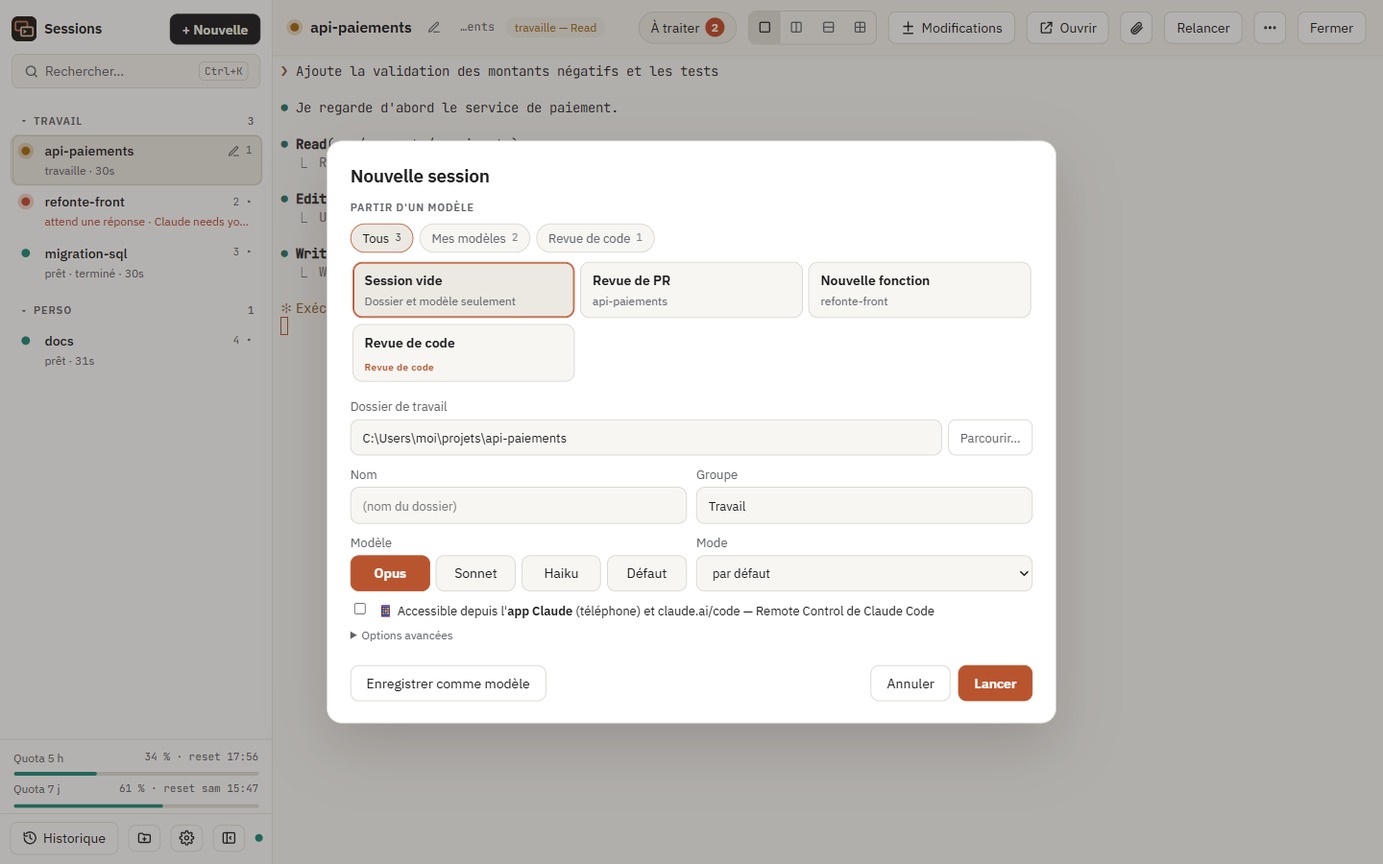
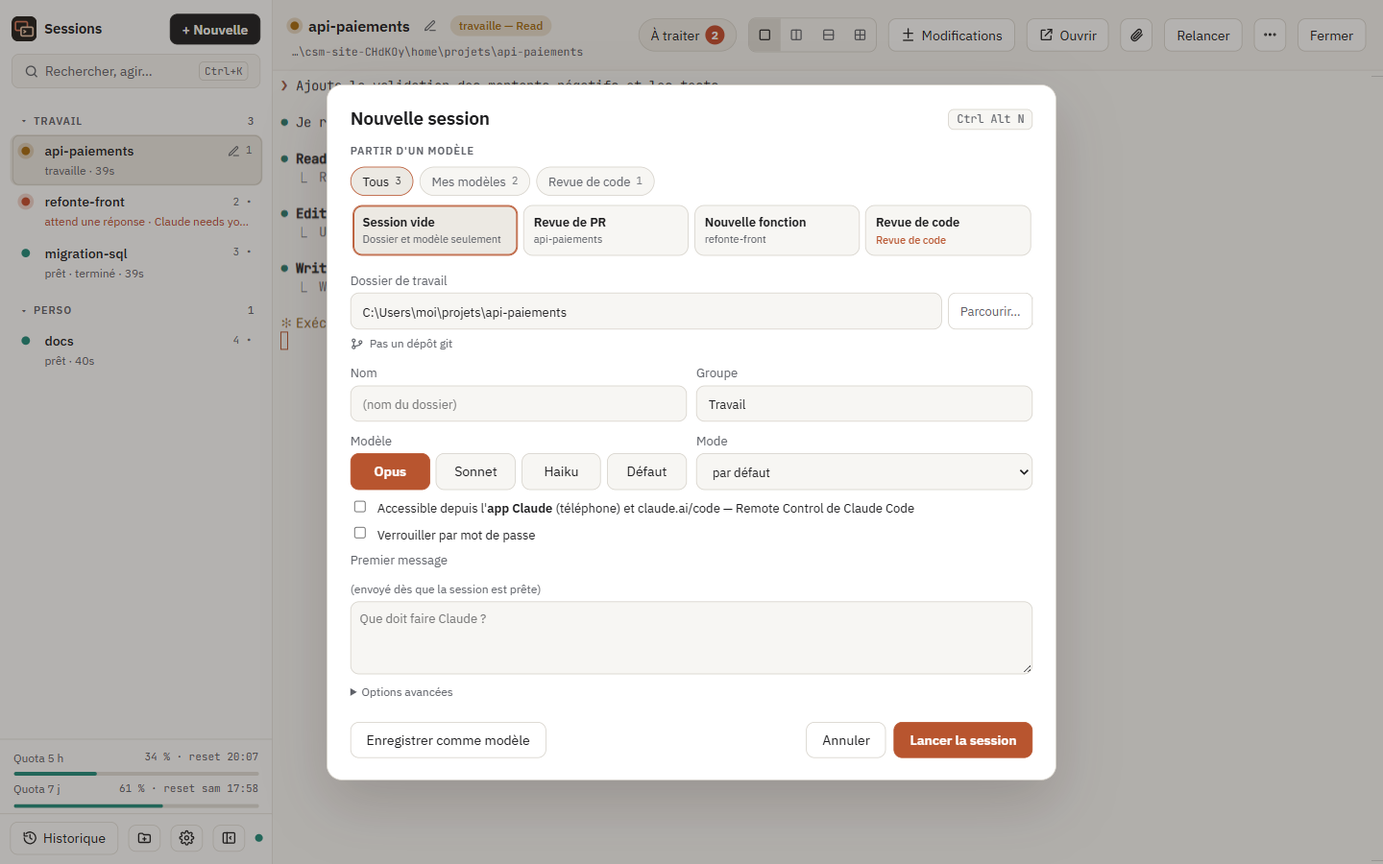
feat: refonte Atelier complétée — palette par sections, usage par période et toutes machines avec prévision 7 j, réglages de synchro, en-tête et vue partagée, nouvelle session et centre d'attention — v3.35.0

diff --git a/docs/guide.html b/docs/guide.html
@@ -86,7 +86,7 @@ footer { border-top: 1px solid var(--line); padding: 26px 20px 40px; color: var(
   </aside>
   <main>
     <h1>Guide de Claude Sessions</h1>
-    <p class="lead">Tout ce que fait l'application et comment s'en servir — version 3.34.0. Le même guide est dans le <a href="https://github.com/khalilbenaz/claude-sessions-manager#readme">README</a>.</p>
+    <p class="lead">Tout ce que fait l'application et comment s'en servir — version 3.35.0. Le même guide est dans le <a href="https://github.com/khalilbenaz/claude-sessions-manager#readme">README</a>.</p>
 <section id="g1-installation"><h2><span class="num">1</span>Installation</h2>
 <p>Seul prérequis : <b>Claude Code</b> installé (la commande <code>claude</code> fonctionne dans un terminal). Node.js n'est pas nécessaire.</p>
 <div class="tablebox"><table><thead><tr><th>Système</th><th>Fichier (<a href="https://github.com/khalilbenaz/claude-sessions-manager/releases/latest" target="_blank" rel="noopener">dernière version</a>)</th><th>Installation</th></tr></thead><tbody><tr><td>Windows 10 / 11</td><td><code>Claude-Sessions-Setup-x.y.z.exe</code></td><td>double-clic ; installation en un clic, sans droits administrateur</td></tr><tr><td>Mac Apple Silicon (M1…M4)</td><td><code>Claude-Sessions-x.y.z-arm64.dmg</code></td><td>ouvrir, glisser <b>Claude Sessions</b> dans Applications</td></tr><tr><td>Mac Intel</td><td><code>Claude-Sessions-x.y.z-x64.dmg</code></td><td>idem</td></tr></tbody></table></div>
@@ -132,7 +132,7 @@ footer { border-top: 1px solid var(--line); padding: 26px 20px 40px; color: var(
 </section>
 <section id="g6-vue-partagee"><h2><span class="num">6</span>Vue partagée</h2>
 <p>Pour <b>suivre plusieurs sessions en même temps</b> : boutons de disposition dans la barre (▢ une, ◫ deux colonnes, ⊟ deux lignes, ⊞ grille 2×2) ou palette.</p>
-<ul><li><b>Placer une session</b> : glisse-la depuis la barre latérale sur un panneau, ou clique-la (elle va dans le panneau actif, surligné en orange).</li><li><b>Changer de panneau</b> : clic dans le panneau ou <kbd>Ctrl</kbd>+<kbd>Alt</kbd>+<kbd>←</kbd>/<kbd>→</kbd> ; ✕ en haut d'un panneau le vide.</li><li>Chaque terminal garde sa propre taille ; la disposition est mémorisée.</li><li><b>Envoyer à tous les panneaux</b> : la barre sous la grille envoie un même message à toutes les sessions affichées (« Envoyer à N panneaux ») ; une session qui travaille le reçoit en file d'attente (case <i>en file si occupée</i>).</li><li><b>Mode focus</b> (<kbd>Ctrl</kbd>+<kbd>Alt</kbd>+<kbd>F</kbd>) : masque la barre latérale.</li></ul>
+<ul><li><b>Placer une session</b> : glisse-la depuis la barre latérale sur un panneau, ou clique-la (elle va dans le panneau actif, surligné en orange).</li><li><b>Changer de panneau</b> : clic dans le panneau ou <kbd>Ctrl</kbd>+<kbd>Alt</kbd>+<kbd>←</kbd>/<kbd>→</kbd> ; ✕ en haut d'un panneau le vide.</li><li>Chaque terminal garde sa propre taille ; la disposition est mémorisée. L'en-tête d'un panneau montre le numéro de la session ; quand elle demande une autorisation, <b>Oui / Toujours / Non</b> y répondent sans quitter la grille.</li><li><b>Envoyer à tous les panneaux</b> : la barre sous la grille envoie un même message à toutes les sessions affichées (« Envoyer à N panneaux ») ; une session qui travaille le reçoit en file d'attente (case <i>en file si occupée</i>).</li><li><b>Mode focus</b> (<kbd>Ctrl</kbd>+<kbd>Alt</kbd>+<kbd>F</kbd>) : masque la barre latérale.</li></ul>
 </section>
 <section id="g7-worktrees-git-plusieurs-claude-sur-le-meme-depot"><h2><span class="num">7</span>Worktrees git : plusieurs Claude sur le même dépôt</h2>
 <p>Deux sessions qui modifient le même dépôt au même moment se marchent dessus. Un <b>worktree git</b> donne à une session <b>son propre dossier et sa propre branche</b>, à côté du dépôt principal, sans y toucher.</p>
@@ -140,7 +140,7 @@ footer { border-top: 1px solid var(--line); padding: 26px 20px 40px; color: var(
 <p>La fusion est refusée s'il reste des modifications non commitées, si le dépôt principal n'est pas sur la branche de base, ou en cas de conflit (la fusion est alors annulée proprement).</p>
 </section>
 <section id="g8-panneau-modifications-chronologie-consommation"><h2><span class="num">8</span>Panneau Modifications, Chronologie, Consommation</h2>
-<p><b>Usage de Claude</b> (<kbd>Ctrl</kbd>+<kbd>Alt</kbd>+<kbd>U</kbd>, palette, ou clic sur les quotas en bas de la barre latérale) : sessions actives, demandes à traiter, <b>temps de travail de Claude</b> aujourd'hui (dont le temps « sans toi », pendant que la file d'attente envoyait les demandes), coût estimé du jour et des 7 jours ; <b>quota 5 h</b> avec son historique et une <b>prévision</b> (« au rythme actuel, limite atteinte vers 15:40 ») ; prochaines <b>tâches planifiées</b> ; détail <b>par session</b> (temps du jour, tokens et coût sur 7 jours).</p>
+<p><b>Usage de Claude</b> (<kbd>Ctrl</kbd>+<kbd>Alt</kbd>+<kbd>U</kbd>, palette, ou clic sur les quotas en bas de la barre latérale) : sessions actives, demandes à traiter, <b>temps de travail de Claude</b> aujourd'hui (dont le temps « sans toi », pendant que la file d'attente envoyait les demandes), coût estimé du jour et des 7 jours ; <b>quota 5 h</b> avec son historique et une <b>prévision</b> (« au rythme actuel, limite atteinte vers 15:40 ») ; prochaines <b>tâches planifiées</b> (avec la session ou le modèle visé ; <i>Ajouter</i>, <i>Gérer</i>) ; détail <b>par session</b>. <b>Période</b> au choix : jour, 7 jours ou 30 jours. Graphique du quota 5 h avec les heures, la prévision en hachuré jusqu'à la réinitialisation et le seuil de pause de la file ; <b>quota 7 jours</b> avec sa propre prévision (rythme des dernières 24 h). Avec la synchro, <b>Cette machine / Toutes les machines</b> additionne l'usage de tes machines (colonne Machine) : chaque machine ne partage que des totaux chiffrés par jour et par session, jamais de conversation (option <i>Usage de Claude</i> de la synchro).</p>
 <p>Bouton <b>± Modifications</b> (<kbd>Ctrl</kbd>+<kbd>Alt</kbd>+<kbd>G</kbd>) ou ⋯ : panneau latéral à trois onglets pour la session active.</p>
 <ul><li><b>Modifications</b> : fichiers modifiés dans le dossier de la session (git) avec leur état (M modifié, N nouveau, S supprimé). Clic = <b>diff coloré</b> ; ↺ = annuler un fichier ; <b>commit</b> avec « Proposer un message » et « Committer tout ». Rafraîchi quand Claude a fini un tour.</li><li><b>Chronologie</b> : les actions de Claude (📖 lus, ✏ modifiés, ▶ commandes, 🔎 recherches…) avec l'heure.</li><li><b>Consommation</b> : tokens d'entrée / sortie et <b>coût estimé</b> de la session, puis de toutes les sessions sur 5 h, aujourd'hui et 7 jours ; graphique par jour ; sessions les plus coûteuses. Estimation aux tarifs API publics, indicative (inclus dans un abonnement Claude).</li><li><b>Barre d'état des quotas</b> : sous l'invite de chaque session, CSM affiche tes quotas d'abonnement et l'heure de leur réinitialisation, le contexte utilisé et le modèle : <code>5h 20% ↻ 13:21 (2h09) · 7j 90% ↻ jeu 18:44 (2j7h) · ctx 42% · Opus 5.5</code>. Seulement si tu n'as pas déjà ta propre barre d'état Claude Code (<code>statusLine</code> dans <code>~/.claude/settings.json</code>) ; désactivable dans Réglages › Général.</li></ul>
 <p><b>Exporter une conversation</b> : ⋯ › Exporter → Markdown (fichier ou presse-papiers) ou impression / PDF.</p>
@@ -155,7 +155,7 @@ footer { border-top: 1px solid var(--line); padding: 26px 20px 40px; color: var(
 <p><b>Aperçu</b> : chaque image jointe apparaît en <b>miniature en haut à droite du terminal</b> (images du message en cours, propres à chaque session : seules celles de la session active sont affichées ; elles disparaissent dès que le message est envoyé). <b>Clic</b> = l'image en grand avec son nom (<kbd>Échap</kbd> pour fermer) ; <b>✕</b> masque les miniatures jusqu'à la prochaine pièce jointe. Les autres fichiers apparaissent en 📄.</p>
 </section>
 <section id="g11-palette-recherche-prompts-file-dattente-envoi-groupe"><h2><span class="num">11</span>Palette, recherche, prompts, file d'attente, envoi groupé</h2>
-<ul><li><b>Palette de commandes</b> (<kbd>Ctrl</kbd>/<kbd>⌘</kbd>+<kbd>K</kbd>) : quelques lettres pour aller à une session, reprendre une conversation, lancer un modèle, insérer un prompt ou exécuter une action (disposition, thème, réglages, diagnostic, verrouillage…). Les actions récentes remontent en tête.</li><li><b>Rechercher dans les sessions</b> (<kbd>Ctrl</kbd>/<kbd>⌘</kbd>+<kbd>Maj</kbd>+<kbd>F</kbd>) : un texte dans le contenu de tous les terminaux ouverts ; clic = y aller.</li><li><b>Bibliothèque de prompts</b> (⋯ › Insérer un prompt…, palette, Réglages › Prompts) : tes demandes réutilisables. Elle démarre avec 8 prompts prêts à l'emploi (relire les modifications, écrire les tests, expliquer du code, préparer un commit, corriger un bug, proposer un plan, documenter, résumer), modifiables et supprimables ; <b>+ Nouveau</b> pour ajouter les tiens. <b>Insérer</b> les place dans la ligne de saisie (tu relis, puis Entrée) ; <b>Envoyer</b> les soumet. Variables : <code>{dossier}</code>, <code>{branche}</code>, <code>{nom}</code>, <code>{selection}</code> (texte sélectionné dans le terminal).</li><li><b>File d'attente</b> (⋯ › File d'attente…, <kbd>Ctrl</kbd>+<kbd>Alt</kbd>+<kbd>Q</kbd>) : des prompts envoyés <b>un par un, automatiquement, chaque fois que Claude a fini</b> le précédent — « implémente », puis « ajoute les tests », puis « relis ». Le badge ⏳ indique le nombre en attente.</li></ul>
+<ul><li><b>Palette de commandes</b> (<kbd>Ctrl</kbd>/<kbd>⌘</kbd>+<kbd>K</kbd>) : quelques lettres pour aller à une session, reprendre une conversation, lancer un modèle, insérer un prompt ou exécuter une action (disposition, thème, réglages, diagnostic, verrouillage…). Les actions récentes remontent en tête. Résultats rangés par <b>sections</b> (Sessions, Actions, Prompts, Modèles, Conversations), terme surligné ; <code>&gt;</code> ne montre que les commandes, <code>/</code> que les prompts ; <kbd>Ctrl</kbd>/<kbd>⌘</kbd>+<kbd>Entrée</kbd> ouvre la session choisie dans un panneau de la vue partagée.</li><li><b>Rechercher dans les sessions</b> (<kbd>Ctrl</kbd>/<kbd>⌘</kbd>+<kbd>Maj</kbd>+<kbd>F</kbd>) : un texte dans le contenu de tous les terminaux ouverts ; clic = y aller.</li><li><b>Bibliothèque de prompts</b> (⋯ › Insérer un prompt…, palette, Réglages › Prompts) : tes demandes réutilisables. Elle démarre avec 8 prompts prêts à l'emploi (relire les modifications, écrire les tests, expliquer du code, préparer un commit, corriger un bug, proposer un plan, documenter, résumer), modifiables et supprimables ; <b>+ Nouveau</b> pour ajouter les tiens. <b>Insérer</b> les place dans la ligne de saisie (tu relis, puis Entrée) ; <b>Envoyer</b> les soumet. Variables : <code>{dossier}</code>, <code>{branche}</code>, <code>{nom}</code>, <code>{selection}</code> (texte sélectionné dans le terminal).</li><li><b>File d'attente</b> (⋯ › File d'attente…, <kbd>Ctrl</kbd>+<kbd>Alt</kbd>+<kbd>Q</kbd>) : des prompts envoyés <b>un par un, automatiquement, chaque fois que Claude a fini</b> le précédent — « implémente », puis « ajoute les tests », puis « relis ». Le badge ⏳ indique le nombre en attente.</li></ul>
 <p>  - <b>Quota</b> (Réglages › Général, activé par défaut) : près de la limite des 5 heures (seuil réglable, 95 % par défaut, lu dans la barre d'état de l'app) ou quand Claude Code affiche « 5-hour limit reached ∙ resets 3pm », la file <b>se met en pause</b> (badge <b>⏸ quota 15:00</b>) et <b>repart seule à la réinitialisation</b>, une minute après. Les sessions coupées en plein travail par la limite reçoivent alors « continue » (option <i>Relancer les sessions coupées par la limite</i>). Rien n'est envoyé pour rien pendant la nuit.</p>
 <ul><li><b>Envoi groupé</b> (<kbd>Ctrl</kbd>+<kbd>Alt</kbd>+<kbd>B</kbd>) : le même prompt à plusieurs sessions cochées, tout de suite ou en file d'attente si elles travaillent.</li></ul>
 <h3>11 bis. Demandes programmées</h3>

diff --git a/docs/index.html b/docs/index.html
@@ -238,7 +238,7 @@ try { const t = localStorage.getItem('csm-site-theme'); if (t) document.document
   </div>
 
   <section id="nouveautes">
-    <p class="eyebrow">Nouveautés 3.33</p>
+    <p class="eyebrow">Nouveautés 3.33 → 3.35</p>
     <h2>Une refonte complète, pensée pour travailler à plusieurs Claude</h2>
     <p class="sub">Nouvelle interface « Atelier », un endroit pour tout ce qui vous attend, l'usage de Claude en un coup d'œil, et des extensions pour ajouter vos propres types de session sans écrire de code.</p>
     <div class="grid">
@@ -262,7 +262,7 @@ try { const t = localStorage.getItem('csm-site-theme'); if (t) document.document
         <ul>
           <li>Envoi groupé : le même message à tous les panneaux visibles</li>
           <li>« En file si occupée » : il attend que Claude ait fini</li>
-          <li>Le panneau actif est entouré, son état reste visible</li>
+          <li>Une autorisation ? Oui / Toujours / Non directement dans le panneau</li>
         </ul>
       </div>
       <div class="window themed"><div class="tb"><i></i><i></i><i></i><span>Vue partagée 2×2</span></div><img class="dark" src="img/split.png" width="1440" height="900" loading="lazy" alt="Grille de quatre sessions avec la barre d'envoi groupé en bas"><img class="light" src="img/split-light.png" width="1440" height="900" loading="lazy" alt="Grille de quatre sessions avec la barre d'envoi groupé en bas"></div>
@@ -291,7 +291,8 @@ try { const t = localStorage.getItem('csm-site-theme'); if (t) document.document
         <ul>
           <li>Quotas 5 h et 7 jours toujours en bas de la barre latérale, même avec votre propre barre d'état</li>
           <li>La file d'attente se met en pause près de la limite, puis repart</li>
-          <li>Tokens et coût par session sur 7 jours, tâches planifiées</li>
+          <li>Prévision aussi pour le quota 7 jours ; période jour, 7 ou 30 jours</li>
+          <li>Toutes vos machines additionnées (totaux chiffrés, jamais de conversation)</li>
         </ul>
         <p class="kbds"><kbd>Ctrl</kbd>/<kbd>⌘</kbd>+<kbd>Alt</kbd>+<kbd>U</kbd>, ou un clic sur les quotas.</p>
       </div>
@@ -362,7 +363,7 @@ try { const t = localStorage.getItem('csm-site-theme'); if (t) document.document
       <div class="card"><h3><svg class="i"><use href="#i-branch"/></svg>Un worktree par session</h3><p>Chaque session a sa branche ; fusion en un clic quand c'est prêt.</p></div>
       <div class="card"><h3><svg class="i"><use href="#i-diff"/></svg>Panneau Modifications</h3><p>Fichiers modifiés, diff coloré, annuler un fichier, commit avec message proposé.</p></div>
       <div class="card"><h3><svg class="i"><use href="#i-folder"/></svg>Groupes</h3><p>Créez, renommez, supprimez des groupes ; glissez-y vos sessions. Épinglez les plus importantes.</p></div>
-      <div class="card"><h3><svg class="i"><use href="#i-cmd"/></svg>Palette de commandes</h3><p><kbd>Ctrl</kbd>/<kbd>⌘</kbd>+<kbd>K</kbd> : sessions, conversations, modèles, prompts et actions, en quelques lettres.</p></div>
+      <div class="card"><h3><svg class="i"><use href="#i-cmd"/></svg>Palette de commandes</h3><p><kbd>Ctrl</kbd>/<kbd>⌘</kbd>+<kbd>K</kbd> : sessions, conversations, modèles, prompts et actions rangés par sections ; <code>&gt;</code> pour les commandes, <code>/</code> pour les prompts.</p></div>
       <div class="card"><h3><svg class="i"><use href="#i-queue"/></svg>File d'attente et prompts</h3><p>Des demandes qui partent quand Claude a fini, une bibliothèque de prompts, un envoi à plusieurs sessions.</p></div>
       <div class="card"><h3><svg class="i"><use href="#i-clock"/></svg>Demandes programmées</h3><p>Un prompt, ou un modèle lancé, à heure fixe : une fois, ou certains jours.</p></div>
       <div class="card"><h3><svg class="i"><use href="#i-gauge"/></svg>La file suit votre quota</h3><p>Pause près de la limite des 5 h, reprise à la réinitialisation ; les sessions coupées reprennent avec « continue ».</p></div>

diff --git a/test/app.test.js b/test/app.test.js
@@ -140,7 +140,13 @@ test('groupes : créer un groupe vide, y glisser une session, le renommer, le su
   // groupe vide visible, avec sa zone de dépôt
   await win.waitForFunction(() => [...document.querySelectorAll('#list li.ghead.empty .gname')].some(x => x.textContent === 'Clients'));
   const src = await win.evaluate(() => [...sessions.values()].find(s => s.name === 'e2e').id);
-  await win.dragAndDrop(`#list li[data-id="${src}"]`, '#list li.gempty');
+  // dépôt sur le groupe vide : événements de glisser-déposer envoyés dans la page (le glisser simulé au pointeur
+  // est instable dans une fenêtre cachée) ; même gestionnaire que le vrai glisser
+  await win.evaluate(id => {
+    const dt = new DataTransfer(); dt.setData('text/plain', id); dt.setData('text/csm-session', id);
+    const to = document.querySelector('#list li.gempty');
+    for (const type of ['dragenter', 'dragover', 'drop']) to.dispatchEvent(new DragEvent(type, { dataTransfer: dt, bubbles: true, cancelable: true }));
+  }, src);
   await win.waitForFunction(id => sessions.get(id).group === 'Clients', src, { timeout: 15000 });
   await win.waitForFunction(() => !document.querySelector('#list li.gempty'));
   // menu « Déplacer vers le groupe » : retour dans « Sans groupe »
@@ -409,21 +415,12 @@ test('usage de Claude : indicateurs, quota, sessions (Ctrl+Alt+U)', async () => 
   await win.evaluate(() => document.querySelector('#dlgUsage').close());
 });
 
-test('fermer la fenêtre ne coupe pas les sessions', async () => {
-  await win.evaluate(() => window.close());
-  await new Promise(r => setTimeout(r, 800));
-  const token = fs.readFileSync(path.join(DATA, 'token'), 'utf8').trim();
-  const r = await fetch(`http://127.0.0.1:${PORT}/api/sessions`, { headers: { 'X-CSM-Token': token } });
-  const list = await r.json();
-  assert.ok(list.filter(s => s.alive).length >= 2, 'sessions toujours actives');
-});
-
 test('en-tête : chemin complet du dossier et état en pastille', async () => {
   await win.waitForFunction(() => document.querySelector('#curCwd bdi')?.textContent.length > 0);
-  const r = await win.evaluate(() => ({ cwd: document.querySelector('#curCwd bdi').textContent, title: document.querySelector('#curCwd').title, msg: document.querySelector('#curMsg').className }));
-  assert.ok(r.cwd.endsWith('projet'), r.cwd); // chemin complet, non tronqué
+  const r = await win.evaluate(() => ({ cwd: document.querySelector('#curCwd bdi').textContent, full: sessions.get(active)?.cwd, title: document.querySelector('#curCwd').title, msg: document.querySelector('#curMsg').className }));
+  assert.equal(r.cwd, r.full); // chemin complet de la session active, non tronqué
   assert.ok(r.title.startsWith(r.cwd));
-  assert.match(r.msg, /msg/);
+  assert.match(r.msg, /\bmsg\b/);
 });
 
 test('vue partagée : bandeau d’aide masquable et mémorisé', async () => {
@@ -434,4 +431,13 @@ test('vue partagée : bandeau d’aide masquable et mémorisé', async () => {
   assert.equal(await win.locator('#paneHint').isVisible(), false);
   assert.equal(await win.evaluate(() => localStorage.getItem('csm.paneHintOff')), 'true');
   await win.click('[data-layout="1"]');
+});
+
+test('fermer la fenêtre ne coupe pas les sessions', async () => {
+  await win.evaluate(() => window.close());
+  await new Promise(r => setTimeout(r, 800));
+  const token = fs.readFileSync(path.join(DATA, 'token'), 'utf8').trim();
+  const r = await fetch(`http://127.0.0.1:${PORT}/api/sessions`, { headers: { 'X-CSM-Token': token } });
+  const list = await r.json();
+  assert.ok(list.filter(s => s.alive).length >= 2, 'sessions toujours actives');
 });

diff --git a/public/i18n.js b/public/i18n.js
@@ -311,11 +311,11 @@ const EN = {
   'Version {v} prête : installation automatique dès que la fenêtre est en arrière-plan, ou redémarre maintenant.': 'Version {v} is ready: it installs automatically once the window is in the background, or restart now.', 'Version {v} disponible au téléchargement.': 'Version {v} is available for download.',
   'Échec de la vérification : {e}': 'Update check failed: {e}', 'Version Microsoft Store : les mises à jour sont installées par le Store.': 'Microsoft Store version: updates are installed by the Store.', 'Réglage non enregistré : ': 'Setting not saved: ',
   // accès depuis l'app Claude
-  "📱 Accessible depuis l'": '📱 Accessible from the ', 'app Claude': 'Claude app', '(téléphone) et claude.ai/code — Remote Control de Claude Code': '(phone) and claude.ai/code — Claude Code Remote Control',
-  "📱 Rendre les nouvelles sessions accessibles depuis l'app Claude (Remote Control)": 'Make new sessions available in the Claude app (Remote Control)',
+  "Accessible depuis l'": 'Accessible from the ', 'app Claude': 'Claude app', '(téléphone) et claude.ai/code — Remote Control de Claude Code': '(phone) and claude.ai/code — Claude Code Remote Control',
+  "Rendre les nouvelles sessions accessibles depuis l'app Claude (Remote Control)": 'Make new sessions available in the Claude app (Remote Control)',
   "Remote Control de Claude Code : la session apparaît dans l'app Claude (onglet Code) et sur claude.ai/code. Connexion sortante via Anthropic, aucun port ouvert ; le code reste sur ce PC. Nécessite un abonnement Pro, Max, Team ou Enterprise connecté avec /login (pas une clé API).": 'Claude Code Remote Control: the session shows up in the Claude app (Code tab) and on claude.ai/code. Outbound connection through Anthropic, no open port; your code stays on this computer. Requires a Pro, Max, Team or Enterprise subscription signed in with /login (not an API key).',
   'Session accessible depuis l’app Claude (onglet Code)': 'Session available in the Claude app (Code tab)', 'Accès depuis l’app Claude désactivé': 'Claude app access turned off',
-  'Désactiver l’accès depuis l’app Claude': 'Turn off Claude app access', '📱 Accès depuis l’app Claude (téléphone)': '📱 Access from the Claude app (phone)',
+  'Désactiver l’accès depuis l’app Claude': 'Turn off Claude app access', 'Accès depuis l’app Claude (téléphone)': 'Access from the Claude app (phone)',
   // modèles / prompts
   'Enregistrer comme modèle…': 'Save as template…', 'Enregistrer la session comme modèle': 'Save session as template',
   'Reprend le dossier, le groupe, le modèle et le mode de cette session. Retrouvable dans « Nouvelle session » et la palette (Ctrl+K).': 'Uses this session\u2019s folder, group, model and mode. Available in “New session” and the palette (Ctrl+K).',

diff --git a/public/index.html b/public/index.html
@@ -204,7 +204,7 @@
       <label id="wtBranchRow" hidden>Branche <input name="branch" autocomplete="off" spellcheck="false"></label>
       <p class="hint" id="wtHint"></p>
     </div>
-    <label class="check"><input type="checkbox" name="remote"> <span>📱 Accessible depuis l'<b>app Claude</b> (téléphone) et claude.ai/code — Remote Control de Claude Code</span></label>
+    <label class="check"><input type="checkbox" name="remote"> <span>Accessible depuis l'<b>app Claude</b> (téléphone) et claude.ai/code — Remote Control de Claude Code</span></label>
     <label class="check"><input type="checkbox" name="lockpw"> <span>Verrouiller par mot de passe</span></label>
     <label class="nsPrompt">Premier message <span class="hint">(envoyé dès que la session est prête)</span> <textarea name="prompt" rows="3" spellcheck="false" placeholder="Que doit faire Claude ?"></textarea></label>
     <details>
@@ -374,7 +374,7 @@
         <label class="check"><input type="checkbox" data-set="queueResumeAfterLimit"> <span>À la réinitialisation, relancer (« continue ») les sessions coupées par la limite</span></label>
         <label>Compactage automatique <select data-set="autoCompactWindow"><option value="model">Fenêtre complète du modèle (recommandé)</option><option value="400000">Vers 400 000 tokens</option><option value="200000">Vers 200 000 tokens</option><option value="claude">Réglage de Claude Code</option></select></label>
         <p class="hint">Si Claude compacte la conversation en boucle, c'est souvent une fenêtre trop petite imposée par CLAUDE_CODE_AUTO_COMPACT_WINDOW : « Fenêtre complète » la remplace pour les sessions de l'app.</p>
-        <label class="check"><input type="checkbox" data-set="remoteAll"> <span>📱 Rendre les nouvelles sessions accessibles depuis l'app Claude (Remote Control)</span></label>
+        <label class="check"><input type="checkbox" data-set="remoteAll"> <span>Rendre les nouvelles sessions accessibles depuis l'app Claude (Remote Control)</span></label>
         <p class="hint">Remote Control de Claude Code : la session apparaît dans l'app Claude (onglet Code) et sur claude.ai/code. Connexion sortante via Anthropic, aucun port ouvert ; le code reste sur ce PC. Nécessite un abonnement Pro, Max, Team ou Enterprise connecté avec /login (pas une clé API).</p>
         <label class="check"><input type="checkbox" data-set="autoUpdate"> <span>Mises à jour automatiques</span></label>
         <label class="check app-only"><input type="checkbox" data-set="autoRestart"> <span>Installer la mise à jour et redémarrer tout seul (fenêtre réduite ou en arrière-plan, ou après 5 min d'inactivité ; jamais pendant qu'une session travaille ; les sessions reviennent)</span></label>

diff --git a/public/app.js b/public/app.js
@@ -884,7 +884,7 @@ function moreItems(id) {
     [t('Modifications'), () => window.csmFeatures.showPanel('changes'), { kbd: `${MOD}+Alt+G` }],
     [t('Chronologie'), () => window.csmFeatures.showPanel('timeline')],
     [t('Consommation'), () => window.csmFeatures.showPanel('usage')],
-    [isRemote(s) ? t('Désactiver l’accès depuis l’app Claude') : t('📱 Accès depuis l’app Claude (téléphone)'), () => setRemote(id, !isRemote(s))],
+    [isRemote(s) ? t('Désactiver l’accès depuis l’app Claude') : t('Accès depuis l’app Claude (téléphone)'), () => setRemote(id, !isRemote(s))],
     [t('Exporter la conversation…'), () => window.csmFeatures.exportConversation(s), { disabled: !s.claudeSessionId }],
     [t('Enregistrer comme modèle…'), () => saveSessionAsTemplate(id)],
     '-',

diff --git a/lib/sync.js b/lib/sync.js
@@ -251,7 +251,8 @@ module.exports = function (ctx) {
   // ceux des autres machines sont gardés dans state.usages pour la vue « toutes les machines ».
   let usageCache = null, usageAt = 0;
   const usageDoc = () => {
-    if (usageCache && Date.now() - usageAt < (Number(process.env.CSM_USAGE_EVERY) || 10 * 60e3)) return usageCache;
+    // recalcul aussi si la machine a été renommée entre-temps
+    if (usageCache && usageCache.name === machine() && Date.now() - usageAt < (Number(process.env.CSM_USAGE_EVERY) || 10 * 60e3)) return usageCache;
     const d = ctx.usageDoc?.();
     if (!d) return usageCache;
     usageCache = { ...d, name: machine(), platform: process.platform }; usageAt = Date.now();

diff --git a/public/dashboard.js b/public/dashboard.js
@@ -54,7 +54,7 @@
     return [plot, axis];
   }
   const CH5 = { span: 5 * 3600e3, slot: 10 * 60e3, tick: 3600e3, ticks: 6, label: hm };
-  const CH7 = { span: 7 * 86400e3, slot: 86400e3, tick: 86400e3, ticks: 7, label: ts => `${t(DAYS[new Date(ts).getDay()])} ${hm(ts)}` };
+  const CH7 = { span: 7 * 86400e3, slot: 86400e3, tick: 86400e3, ticks: 7, label: ts => t(DAYS[new Date(ts).getDay()]) };
 
   // « 12 sessions sur ce PC · 3 sur le Mac », d'après l'origine des sessions (machine qui les a créées)
   function machineSummary(machines) {

diff --git a/public/workspace.css b/public/workspace.css
@@ -45,3 +45,7 @@ body.compact #side footer .syncFoot { display: none; }
 .phead .pperm[hidden] { display: none; }
 .phead .pperm button { height: 22px; padding: 0 8px; font-size: 11.5px; }
 .phead .pperm ~ .pclose { margin-left: 4px; }
+
+/* le chemin prend la place libre de la barre (il ne dicte pas sa largeur : contain) */
+#bar .curId { flex: 1 1 auto; min-width: 0; } /* largeur naturelle + part de la place libre ; rétrécit avant les boutons */
+#bar .curId .cwd { contain: inline-size; width: 100%; }

diff --git a/public/attention.js b/public/attention.js
@@ -40,7 +40,7 @@
   const ago = ts => { const m = Math.max(0, Math.round((Date.now() - ts) / 60000)); return m < 1 ? t('à l’instant') : m < 60 ? `${t('il y a')} ${m} min` : `${t('il y a')} ${Math.round(m / 60)} h`; };
 
   const isPerm = (s, ctx) => /permission|autoris|approv|proceed|Do you want/i.test(`${s.message} ${ctx.slice(-400)}`);
-  const CHOICE = { yes: '1', always: '2', no: '' };
+  const CHOICE = { yes: '1', always: '2', no: '\x1b' };
 
   function items() {
     const out = [];

diff --git a/public/style.css b/public/style.css
@@ -591,3 +591,5 @@ svg.ic { flex: none; vertical-align: -3px; }
 .tplCard .tn { font-size: 13px; }
 .tplCard .td, .tplCard .tb { font-size: 11px; margin-top: 0; white-space: nowrap; overflow: hidden; text-overflow: ellipsis; max-width: 100%; }
 .tplCard .tb { font-weight: 500; letter-spacing: 0; }
+
+#list li.gempty { display: block; } /* texte sur une ligne (pas la grille des lignes de session) */

diff --git a/README.md b/README.md
@@ -149,7 +149,7 @@ Pour **suivre plusieurs sessions en même temps** : boutons de disposition dans 
 
 - **Placer une session** : glisse-la depuis la barre latérale sur un panneau, ou clique-la (elle va dans le panneau actif, surligné en orange).
 - **Changer de panneau** : clic dans le panneau ou <kbd>Ctrl</kbd>+<kbd>Alt</kbd>+<kbd>←</kbd>/<kbd>→</kbd> ; ✕ en haut d'un panneau le vide.
-- Chaque terminal garde sa propre taille ; la disposition est mémorisée.
+- Chaque terminal garde sa propre taille ; la disposition est mémorisée. L'en-tête d'un panneau montre le numéro de la session ; quand elle demande une autorisation, **Oui / Toujours / Non** y répondent sans quitter la grille.
 - **Envoyer à tous les panneaux** : la barre sous la grille envoie un même message à toutes les sessions affichées (« Envoyer à N panneaux ») ; une session qui travaille le reçoit en file d'attente (case *en file si occupée*).
 - **Mode focus** (<kbd>Ctrl</kbd>+<kbd>Alt</kbd>+<kbd>F</kbd>) : masque la barre latérale.
 
@@ -166,7 +166,7 @@ La fusion est refusée s'il reste des modifications non commitées, si le dépô
 
 ## 8. Panneau Modifications, Chronologie, Consommation
 
-**Usage de Claude** (<kbd>Ctrl</kbd>+<kbd>Alt</kbd>+<kbd>U</kbd>, palette, ou clic sur les quotas en bas de la barre latérale) : sessions actives, demandes à traiter, **temps de travail de Claude** aujourd'hui (dont le temps « sans toi », pendant que la file d'attente envoyait les demandes), coût estimé du jour et des 7 jours ; **quota 5 h** avec son historique et une **prévision** (« au rythme actuel, limite atteinte vers 15:40 ») ; prochaines **tâches planifiées** ; détail **par session** (temps du jour, tokens et coût sur 7 jours).
+**Usage de Claude** (<kbd>Ctrl</kbd>+<kbd>Alt</kbd>+<kbd>U</kbd>, palette, ou clic sur les quotas en bas de la barre latérale) : sessions actives, demandes à traiter, **temps de travail de Claude** aujourd'hui (dont le temps « sans toi », pendant que la file d'attente envoyait les demandes), coût estimé du jour et des 7 jours ; **quota 5 h** avec son historique et une **prévision** (« au rythme actuel, limite atteinte vers 15:40 ») ; prochaines **tâches planifiées** (avec la session ou le modèle visé ; *Ajouter*, *Gérer*) ; détail **par session**. **Période** au choix : jour, 7 jours ou 30 jours. Graphique du quota 5 h avec les heures, la prévision en hachuré jusqu'à la réinitialisation et le seuil de pause de la file ; **quota 7 jours** avec sa propre prévision (rythme des dernières 24 h). Avec la synchro, **Cette machine / Toutes les machines** additionne l'usage de tes machines (colonne Machine) : chaque machine ne partage que des totaux chiffrés par jour et par session, jamais de conversation (option *Usage de Claude* de la synchro).
 
 Bouton **± Modifications** (<kbd>Ctrl</kbd>+<kbd>Alt</kbd>+<kbd>G</kbd>) ou ⋯ : panneau latéral à trois onglets pour la session active.
 
@@ -195,7 +195,7 @@ Le fichier est copié dans un dossier temporaire et son chemin collé dans ta li
 
 ## 11. Palette, recherche, prompts, file d'attente, envoi groupé
 
-- **Palette de commandes** (<kbd>Ctrl</kbd>/<kbd>⌘</kbd>+<kbd>K</kbd>) : quelques lettres pour aller à une session, reprendre une conversation, lancer un modèle, insérer un prompt ou exécuter une action (disposition, thème, réglages, diagnostic, verrouillage…). Les actions récentes remontent en tête.
+- **Palette de commandes** (<kbd>Ctrl</kbd>/<kbd>⌘</kbd>+<kbd>K</kbd>) : quelques lettres pour aller à une session, reprendre une conversation, lancer un modèle, insérer un prompt ou exécuter une action (disposition, thème, réglages, diagnostic, verrouillage…). Les actions récentes remontent en tête. Résultats rangés par **sections** (Sessions, Actions, Prompts, Modèles, Conversations), terme surligné ; `>` ne montre que les commandes, `/` que les prompts ; <kbd>Ctrl</kbd>/<kbd>⌘</kbd>+<kbd>Entrée</kbd> ouvre la session choisie dans un panneau de la vue partagée.
 - **Rechercher dans les sessions** (<kbd>Ctrl</kbd>/<kbd>⌘</kbd>+<kbd>Maj</kbd>+<kbd>F</kbd>) : un texte dans le contenu de tous les terminaux ouverts ; clic = y aller.
 - **Bibliothèque de prompts** (⋯ › Insérer un prompt…, palette, Réglages › Prompts) : tes demandes réutilisables. Elle démarre avec 8 prompts prêts à l'emploi (relire les modifications, écrire les tests, expliquer du code, préparer un commit, corriger un bug, proposer un plan, documenter, résumer), modifiables et supprimables ; **+ Nouveau** pour ajouter les tiens. **Insérer** les place dans la ligne de saisie (tu relis, puis Entrée) ; **Envoyer** les soumet. Variables : `{dossier}`, `{branche}`, `{nom}`, `{selection}` (texte sélectionné dans le terminal).
 - **File d'attente** (⋯ › File d'attente…, <kbd>Ctrl</kbd>+<kbd>Alt</kbd>+<kbd>Q</kbd>) : des prompts envoyés **un par un, automatiquement, chaque fois que Claude a fini** le précédent — « implémente », puis « ajoute les tests », puis « relis ». Le badge ⏳ indique le nombre en attente.
